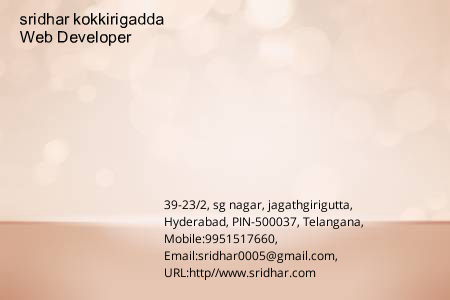
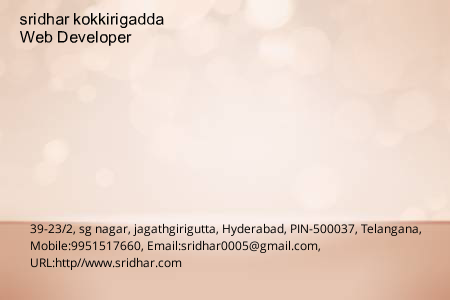
new

Changed region(s): [[0.0622, 0.66, 0.9333, 0.93]]

diff --git a/backend/app/controllers/cardsController.js b/backend/app/controllers/cardsController.js
@@ -46,7 +46,7 @@ module.exports.createCard = async function (req, res) {
         150, 200,
         (err, image, { x, y }) => {
 
-            image.print(font2, x, y + 150, address, 200);
+            image.print(font2, 30,20+ 200, address, 400,400);
         }
     );
 
@@ -63,7 +63,7 @@ module.exports.createCard = async function (req, res) {
         image.composite(watermark, 50, 50, {
             mode: Jimp.BLEND_SOURCE_OVER,
             opacityDest: 1,
-            opacitySource: 1,
+            opacitySource: 2,
 
         })
 
